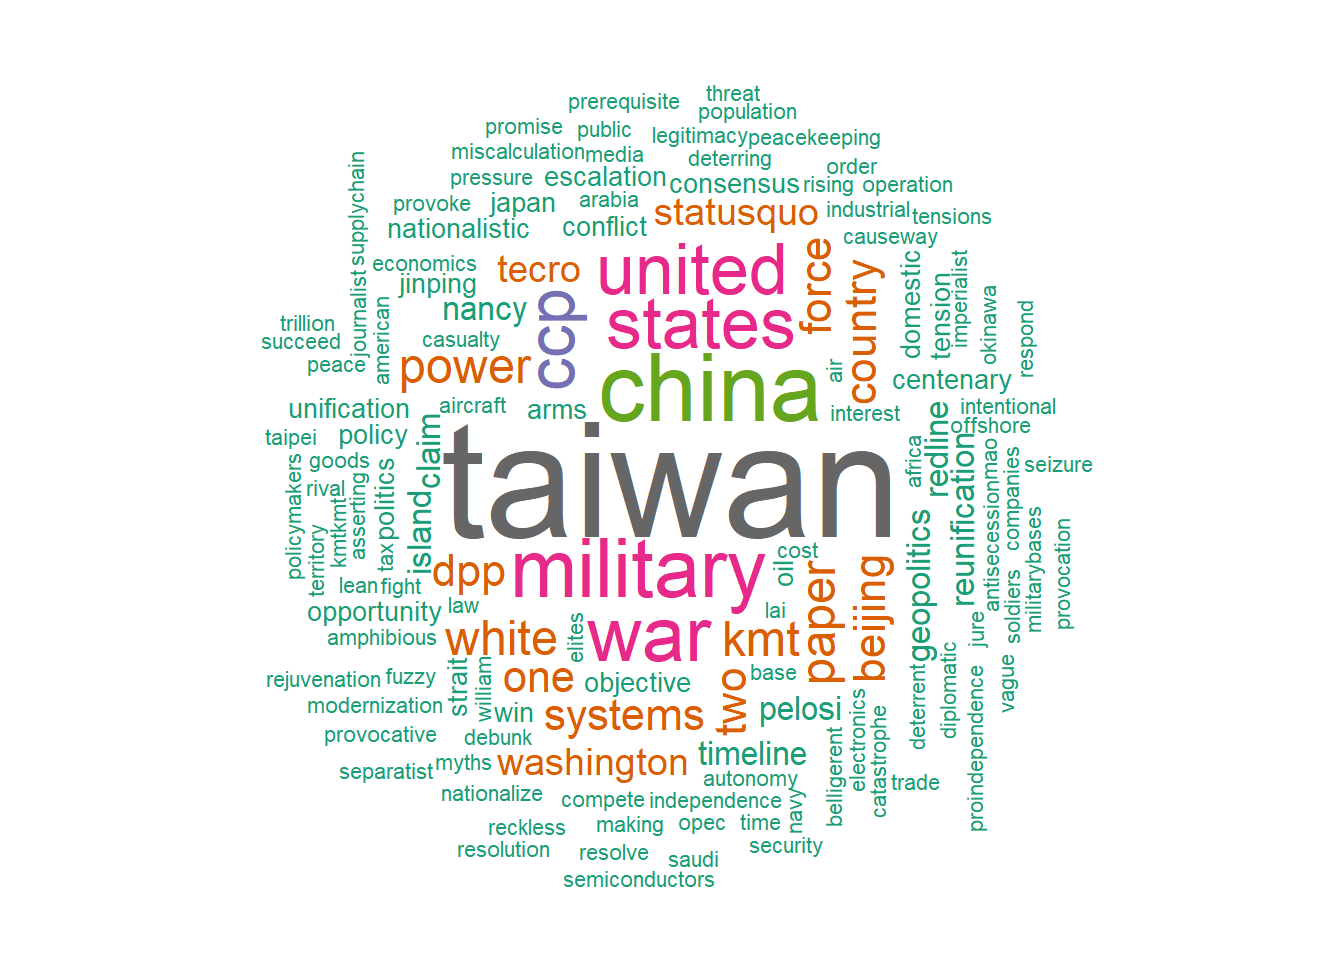
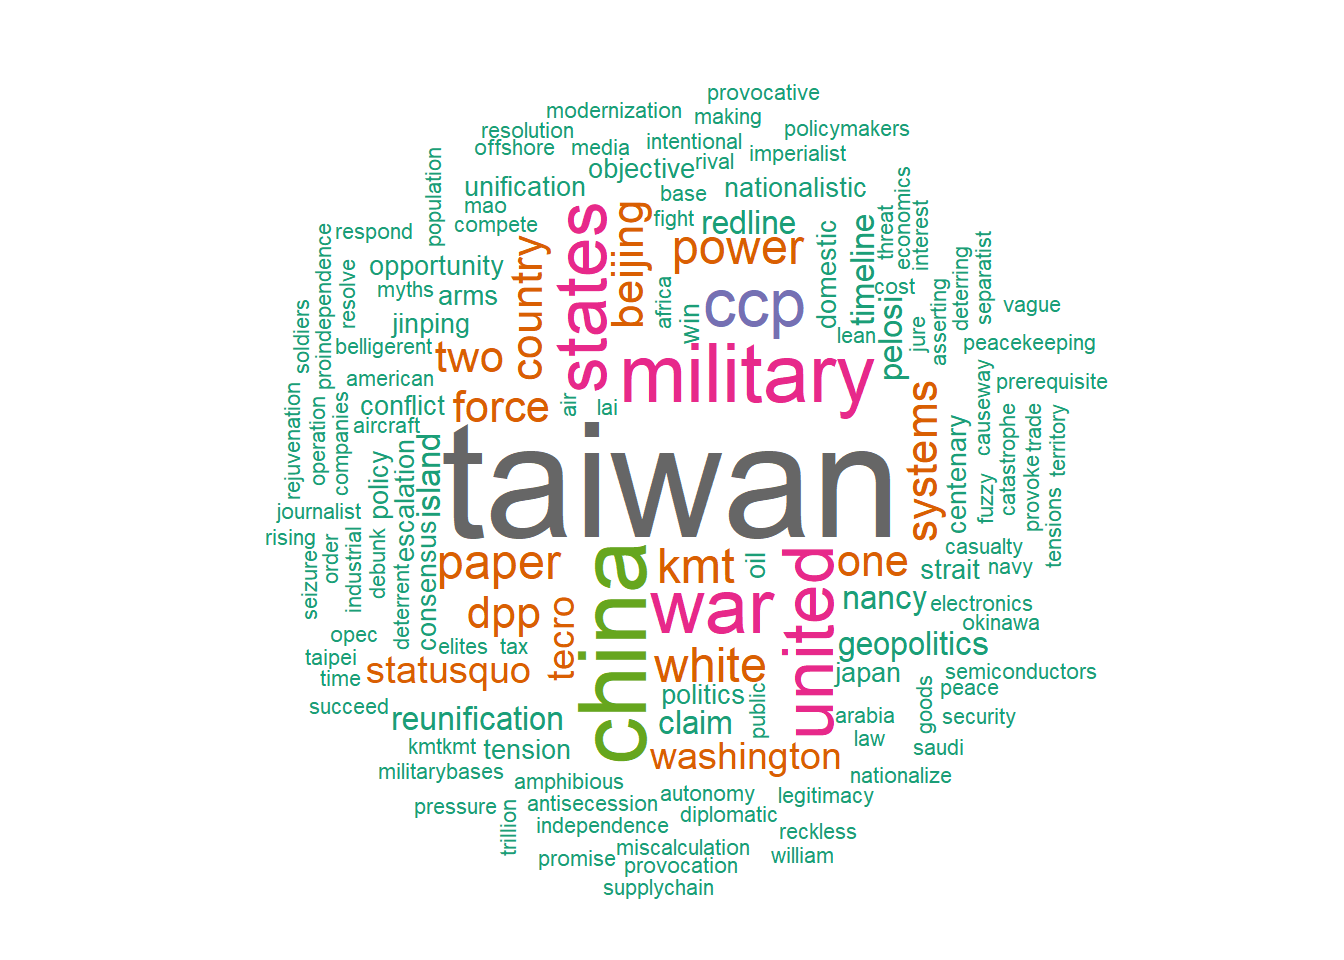
edits

Changed region(s): [[0.1875, 0.0938, 0.8438, 0.9375]]

diff --git a/docs/assignments/taiwan-talk/taiwan.html b/docs/assignments/taiwan-talk/taiwan.html
@@ -294,106 +294,63 @@ code span.wa { color: #60a0b0; font-weight: bold; font-style: italic; } /* Warni
 <section id="read-in-required-libraries-and-the-text" class="level2">
 <h2 class="anchored" data-anchor-id="read-in-required-libraries-and-the-text">Read in required libraries and the text</h2>
 <div class="cell">
-<div class="sourceCode cell-code" id="cb1"><pre class="sourceCode r code-with-copy"><code class="sourceCode r"><span id="cb1-1"><a href="#cb1-1" aria-hidden="true" tabindex="-1"></a><span class="co"># Load required libraries</span></span>
-<span id="cb1-2"><a href="#cb1-2" aria-hidden="true" tabindex="-1"></a><span class="fu">library</span>(tm)</span></code><button title="Copy to Clipboard" class="code-copy-button"><i class="bi"></i></button></pre></div>
-<div class="cell-output cell-output-stderr">
-<pre><code>Loading required package: NLP</code></pre>
-</div>
-<div class="sourceCode cell-code" id="cb3"><pre class="sourceCode r code-with-copy"><code class="sourceCode r"><span id="cb3-1"><a href="#cb3-1" aria-hidden="true" tabindex="-1"></a><span class="fu">library</span>(wordcloud)</span></code><button title="Copy to Clipboard" class="code-copy-button"><i class="bi"></i></button></pre></div>
-<div class="cell-output cell-output-stderr">
-<pre><code>Loading required package: RColorBrewer</code></pre>
-</div>
-<div class="sourceCode cell-code" id="cb5"><pre class="sourceCode r code-with-copy"><code class="sourceCode r"><span id="cb5-1"><a href="#cb5-1" aria-hidden="true" tabindex="-1"></a><span class="fu">library</span>(wordcloud2)</span>
-<span id="cb5-2"><a href="#cb5-2" aria-hidden="true" tabindex="-1"></a></span>
-<span id="cb5-3"><a href="#cb5-3" aria-hidden="true" tabindex="-1"></a><span class="co"># Read in the text from the provided content</span></span>
-<span id="cb5-4"><a href="#cb5-4" aria-hidden="true" tabindex="-1"></a>text <span class="ot">&lt;-</span> <span class="st">"Taiwan, China, Nationalize, Policy-makers, Taiwan Strait, War, Soldiers, American, Geopolitics, Economics, Trade, Electronics, Supply-Chain, Semiconductors, OPEC, Oil, Saudi Arabia, Geopolitics, Military-bases, Island, Okinawa, War, Taiwan, China, Japan, Oil, Nationalistic, United States, China, Territory, Geopolitics, Aircraft, Trillion, Cost, Policy, Taiwan, Domestic Politics in China, CCP, Power, China, Power, China, Threat, Nationalistic, Xi, Power, Interest, CCP, Pressure, Taiwan, Taiwan, Claim, Imperialist, Claim, Claim, Independence, Diplomatic, Beijing, Fight, War, CCP, War, Military, Modernization, War, United States, Japan, Rising, Time, Military, Navy, Air Force, Opportunity, China, United States, Military, Industrial base, War, Rival, Power, Military, CCP, Tax, Companies, Goods, Public, Military, Taiwan Strait, China, Belligerent, China, Taiwan, Taiwan, United States, Status-Quo, Status-Quo, Fuzzy, De jure, Beijing, Domestic, Legitimacy, Deterring, United States, Taiwan, Security, Respond, Beijing, War, Win, Provoke, United States, Taiwan, War, Win, Taiwan, Nancy Pelosi, Taiwan, Military, Island, Provocative, White Paper, Media, White Paper, Journalist, Beijing, White Paper, 1993, 2000, 2022, Taiwan, White Paper, Xi Jinping, White Paper, 2000, Taiwan, One country two systems, Autonomy, Military, White Paper, Promise, Beijing, Compete, 2000, Force, 2000, 2000, Force, 2022, Force, Force, Provocation, Separatist, Red-line, Red-line, Anti-Secession Law, Reunification, Reunification, Reunification, War, Operation Causeway, Casualty, Amphibious, Military, Peacekeeping, Africa, Island, Offshore, Mao, Seizure, Taiwan, Debunk, Myths, Policy making, China, Opportunity, Population, Military, Military, Lean, Power, Xi, Taiwan, CCP, Xi, Elites, China, Xi, CCP, CCP, Timeline, Timeline, Succeed, 2049, Unification, Prerequisite, Rejuvenation, Vague, 2049, Taiwan, One country two systems, One country two systems, One country two systems, Timeline, 2025, 2027, centenary, Xi, CCP, Xi, Order, Military, centenary, 2049, Peace, Conflict, War, Conflict, Escalation, Miscalculation, Reckless, Taiwan, Asserting, Tensions, United States, Washington, Catastrophe, United States, Red-line, Taiwan, China, Intentional, Resolution, Politics, Taiwan, Xi Jinping, Taiwan, Power, DPP, DPP, KMT, KMT, KMT, KMT, Consensus, 92 consensus, One country two systems, KMT, DPP, William Lai, Taipei, Taiwan, Resolve, Objective, War, Tension, Objective, Status-Quo, Tension, Taiwan, KMT, Unification, Washington, DPP, Pro-Independence, KMT,KMT, Washington, CCP, DPP, Arms, Taiwan, United States, Arms, Washington, Taiwan, TECRO, TECRO, Nancy Pelosi, TECRO, China, United States, Nancy Pelosi, China, TECRO, Status-quo, Military, Escalation, Deterrent"</span></span></code><button title="Copy to Clipboard" class="code-copy-button"><i class="bi"></i></button></pre></div>
+
 </div>
 </section>
 <section id="creation-of-the-corpus-for-data-analysis" class="level2">
 <h2 class="anchored" data-anchor-id="creation-of-the-corpus-for-data-analysis">Creation of the Corpus for data analysis</h2>
 <div class="cell">
-<div class="sourceCode cell-code" id="cb6"><pre class="sourceCode r code-with-copy"><code class="sourceCode r"><span id="cb6-1"><a href="#cb6-1" aria-hidden="true" tabindex="-1"></a><span class="co"># Create a corpus from the text</span></span>
-<span id="cb6-2"><a href="#cb6-2" aria-hidden="true" tabindex="-1"></a>corpus <span class="ot">&lt;-</span> <span class="fu">Corpus</span>(<span class="fu">VectorSource</span>(text))</span>
-<span id="cb6-3"><a href="#cb6-3" aria-hidden="true" tabindex="-1"></a></span>
-<span id="cb6-4"><a href="#cb6-4" aria-hidden="true" tabindex="-1"></a><span class="co"># Convert to lowercase, remove punctuation, and remove numbers</span></span>
-<span id="cb6-5"><a href="#cb6-5" aria-hidden="true" tabindex="-1"></a>corpus <span class="ot">&lt;-</span> <span class="fu">tm_map</span>(corpus, <span class="fu">content_transformer</span>(tolower))</span></code><button title="Copy to Clipboard" class="code-copy-button"><i class="bi"></i></button></pre></div>
-<div class="cell-output cell-output-stderr">
-<pre><code>Warning in tm_map.SimpleCorpus(corpus, content_transformer(tolower)):
-transformation drops documents</code></pre>
-</div>
-<div class="sourceCode cell-code" id="cb8"><pre class="sourceCode r code-with-copy"><code class="sourceCode r"><span id="cb8-1"><a href="#cb8-1" aria-hidden="true" tabindex="-1"></a>corpus <span class="ot">&lt;-</span> <span class="fu">tm_map</span>(corpus, removePunctuation)</span></code><button title="Copy to Clipboard" class="code-copy-button"><i class="bi"></i></button></pre></div>
-<div class="cell-output cell-output-stderr">
-<pre><code>Warning in tm_map.SimpleCorpus(corpus, removePunctuation): transformation drops
-documents</code></pre>
-</div>
-<div class="sourceCode cell-code" id="cb10"><pre class="sourceCode r code-with-copy"><code class="sourceCode r"><span id="cb10-1"><a href="#cb10-1" aria-hidden="true" tabindex="-1"></a>corpus <span class="ot">&lt;-</span> <span class="fu">tm_map</span>(corpus, removeNumbers)</span></code><button title="Copy to Clipboard" class="code-copy-button"><i class="bi"></i></button></pre></div>
-<div class="cell-output cell-output-stderr">
-<pre><code>Warning in tm_map.SimpleCorpus(corpus, removeNumbers): transformation drops
-documents</code></pre>
-</div>
-<div class="sourceCode cell-code" id="cb12"><pre class="sourceCode r code-with-copy"><code class="sourceCode r"><span id="cb12-1"><a href="#cb12-1" aria-hidden="true" tabindex="-1"></a><span class="co"># Convert the corpus to a term-document matrix</span></span>
-<span id="cb12-2"><a href="#cb12-2" aria-hidden="true" tabindex="-1"></a>tdm <span class="ot">&lt;-</span> <span class="fu">TermDocumentMatrix</span>(corpus)</span>
-<span id="cb12-3"><a href="#cb12-3" aria-hidden="true" tabindex="-1"></a></span>
-<span id="cb12-4"><a href="#cb12-4" aria-hidden="true" tabindex="-1"></a><span class="co"># Convert the tdm to a matrix and calculate the frequency of each term</span></span>
-<span id="cb12-5"><a href="#cb12-5" aria-hidden="true" tabindex="-1"></a>m <span class="ot">&lt;-</span> <span class="fu">as.matrix</span>(tdm)</span>
-<span id="cb12-6"><a href="#cb12-6" aria-hidden="true" tabindex="-1"></a>v <span class="ot">&lt;-</span> <span class="fu">sort</span>(<span class="fu">rowSums</span>(m), <span class="at">decreasing=</span><span class="cn">TRUE</span>)</span>
-<span id="cb12-7"><a href="#cb12-7" aria-hidden="true" tabindex="-1"></a></span>
-<span id="cb12-8"><a href="#cb12-8" aria-hidden="true" tabindex="-1"></a><span class="co"># Create a dataframe of the most frequent terms and their frequencies</span></span>
-<span id="cb12-9"><a href="#cb12-9" aria-hidden="true" tabindex="-1"></a>df <span class="ot">&lt;-</span> <span class="fu">data.frame</span>(<span class="at">word =</span> <span class="fu">names</span>(v), <span class="at">freq =</span> v)</span></code><button title="Copy to Clipboard" class="code-copy-button"><i class="bi"></i></button></pre></div>
+<div class="sourceCode cell-code" id="cb1"><pre class="sourceCode r code-with-copy"><code class="sourceCode r"><span id="cb1-1"><a href="#cb1-1" aria-hidden="true" tabindex="-1"></a><span class="co"># Create a corpus from the text</span></span>
+<span id="cb1-2"><a href="#cb1-2" aria-hidden="true" tabindex="-1"></a>corpus <span class="ot">&lt;-</span> <span class="fu">Corpus</span>(<span class="fu">VectorSource</span>(text))</span>
+<span id="cb1-3"><a href="#cb1-3" aria-hidden="true" tabindex="-1"></a></span>
+<span id="cb1-4"><a href="#cb1-4" aria-hidden="true" tabindex="-1"></a><span class="co"># Convert to lowercase, remove punctuation, and remove numbers</span></span>
+<span id="cb1-5"><a href="#cb1-5" aria-hidden="true" tabindex="-1"></a>corpus <span class="ot">&lt;-</span> <span class="fu">tm_map</span>(corpus, <span class="fu">content_transformer</span>(tolower))</span>
+<span id="cb1-6"><a href="#cb1-6" aria-hidden="true" tabindex="-1"></a>corpus <span class="ot">&lt;-</span> <span class="fu">tm_map</span>(corpus, removePunctuation)</span>
+<span id="cb1-7"><a href="#cb1-7" aria-hidden="true" tabindex="-1"></a>corpus <span class="ot">&lt;-</span> <span class="fu">tm_map</span>(corpus, removeNumbers)</span>
+<span id="cb1-8"><a href="#cb1-8" aria-hidden="true" tabindex="-1"></a></span>
+<span id="cb1-9"><a href="#cb1-9" aria-hidden="true" tabindex="-1"></a><span class="co"># Convert the corpus to a term-document matrix</span></span>
+<span id="cb1-10"><a href="#cb1-10" aria-hidden="true" tabindex="-1"></a>tdm <span class="ot">&lt;-</span> <span class="fu">TermDocumentMatrix</span>(corpus)</span>
+<span id="cb1-11"><a href="#cb1-11" aria-hidden="true" tabindex="-1"></a></span>
+<span id="cb1-12"><a href="#cb1-12" aria-hidden="true" tabindex="-1"></a><span class="co"># Convert the tdm to a matrix and calculate the frequency of each term</span></span>
+<span id="cb1-13"><a href="#cb1-13" aria-hidden="true" tabindex="-1"></a>m <span class="ot">&lt;-</span> <span class="fu">as.matrix</span>(tdm)</span>
+<span id="cb1-14"><a href="#cb1-14" aria-hidden="true" tabindex="-1"></a>v <span class="ot">&lt;-</span> <span class="fu">sort</span>(<span class="fu">rowSums</span>(m), <span class="at">decreasing=</span><span class="cn">TRUE</span>)</span>
+<span id="cb1-15"><a href="#cb1-15" aria-hidden="true" tabindex="-1"></a></span>
+<span id="cb1-16"><a href="#cb1-16" aria-hidden="true" tabindex="-1"></a><span class="co"># Create a dataframe of the most frequent terms and their frequencies</span></span>
+<span id="cb1-17"><a href="#cb1-17" aria-hidden="true" tabindex="-1"></a>df <span class="ot">&lt;-</span> <span class="fu">data.frame</span>(<span class="at">word =</span> <span class="fu">names</span>(v), <span class="at">freq =</span> v)</span></code><button title="Copy to Clipboard" class="code-copy-button"><i class="bi"></i></button></pre></div>
 </div>
 </section>
 <section id="creation-of-plots" class="level2">
 <h2 class="anchored" data-anchor-id="creation-of-plots">Creation of plots</h2>
 <div class="cell">
-<div class="sourceCode cell-code" id="cb13"><pre class="sourceCode r code-with-copy"><code class="sourceCode r"><span id="cb13-1"><a href="#cb13-1" aria-hidden="true" tabindex="-1"></a><span class="co"># Generate a word cloud</span></span>
-<span id="cb13-2"><a href="#cb13-2" aria-hidden="true" tabindex="-1"></a><span class="fu">wordcloud</span>(<span class="at">words =</span> df<span class="sc">$</span>word, <span class="at">freq =</span> df<span class="sc">$</span>freq, <span class="at">scale=</span><span class="fu">c</span>(<span class="dv">5</span>,<span class="fl">0.5</span>), <span class="at">min.freq =</span> <span class="dv">1</span>, <span class="at">max.words=</span><span class="cn">Inf</span>, <span class="at">random.order=</span><span class="cn">FALSE</span>, <span class="at">rot.per=</span><span class="fl">0.35</span>, <span class="at">colors=</span><span class="fu">brewer.pal</span>(<span class="dv">8</span>, <span class="st">"Dark2"</span>))</span>
-<span id="cb13-3"><a href="#cb13-3" aria-hidden="true" tabindex="-1"></a></span>
-<span id="cb13-4"><a href="#cb13-4" aria-hidden="true" tabindex="-1"></a><span class="co"># Load required libraries</span></span>
-<span id="cb13-5"><a href="#cb13-5" aria-hidden="true" tabindex="-1"></a><span class="fu">library</span>(tm)</span>
-<span id="cb13-6"><a href="#cb13-6" aria-hidden="true" tabindex="-1"></a><span class="fu">library</span>(ggplot2)</span></code><button title="Copy to Clipboard" class="code-copy-button"><i class="bi"></i></button></pre></div>
-<div class="cell-output cell-output-stderr">
-<pre><code>
-Attaching package: 'ggplot2'</code></pre>
-</div>
-<div class="cell-output cell-output-stderr">
-<pre><code>The following object is masked from 'package:NLP':
-
-    annotate</code></pre>
-</div>
+<div class="sourceCode cell-code" id="cb2"><pre class="sourceCode r code-with-copy"><code class="sourceCode r"><span id="cb2-1"><a href="#cb2-1" aria-hidden="true" tabindex="-1"></a><span class="co"># Generate a word cloud</span></span>
+<span id="cb2-2"><a href="#cb2-2" aria-hidden="true" tabindex="-1"></a><span class="fu">wordcloud</span>(<span class="at">words =</span> df<span class="sc">$</span>word, <span class="at">freq =</span> df<span class="sc">$</span>freq, <span class="at">scale=</span><span class="fu">c</span>(<span class="dv">5</span>,<span class="fl">0.5</span>), <span class="at">min.freq =</span> <span class="dv">1</span>, <span class="at">max.words=</span><span class="cn">Inf</span>, <span class="at">random.order=</span><span class="cn">FALSE</span>, <span class="at">rot.per=</span><span class="fl">0.35</span>, <span class="at">colors=</span><span class="fu">brewer.pal</span>(<span class="dv">8</span>, <span class="st">"Dark2"</span>))</span>
+<span id="cb2-3"><a href="#cb2-3" aria-hidden="true" tabindex="-1"></a></span>
+<span id="cb2-4"><a href="#cb2-4" aria-hidden="true" tabindex="-1"></a><span class="co"># Load required libraries</span></span>
+<span id="cb2-5"><a href="#cb2-5" aria-hidden="true" tabindex="-1"></a><span class="fu">library</span>(tm)</span>
+<span id="cb2-6"><a href="#cb2-6" aria-hidden="true" tabindex="-1"></a><span class="fu">library</span>(ggplot2)</span></code><button title="Copy to Clipboard" class="code-copy-button"><i class="bi"></i></button></pre></div>
 <div class="cell-output-display">
 <p><img src="taiwan_files/figure-html/unnamed-chunk-3-1.png" class="img-fluid" width="672"></p>
 </div>
-<div class="sourceCode cell-code" id="cb16"><pre class="sourceCode r code-with-copy"><code class="sourceCode r"><span id="cb16-1"><a href="#cb16-1" aria-hidden="true" tabindex="-1"></a><span class="co"># Create a corpus from the text</span></span>
-<span id="cb16-2"><a href="#cb16-2" aria-hidden="true" tabindex="-1"></a>corpus <span class="ot">&lt;-</span> <span class="fu">Corpus</span>(<span class="fu">VectorSource</span>(text))</span>
-<span id="cb16-3"><a href="#cb16-3" aria-hidden="true" tabindex="-1"></a></span>
-<span id="cb16-4"><a href="#cb16-4" aria-hidden="true" tabindex="-1"></a><span class="co"># Convert to lowercase, remove punctuation, and remove numbers</span></span>
-<span id="cb16-5"><a href="#cb16-5" aria-hidden="true" tabindex="-1"></a>corpus <span class="ot">&lt;-</span> <span class="fu">tm_map</span>(corpus, <span class="fu">content_transformer</span>(tolower))</span></code><button title="Copy to Clipboard" class="code-copy-button"><i class="bi"></i></button></pre></div>
-<div class="cell-output cell-output-stderr">
-<pre><code>Warning in tm_map.SimpleCorpus(corpus, content_transformer(tolower)):
-transformation drops documents</code></pre>
-</div>
-<div class="sourceCode cell-code" id="cb18"><pre class="sourceCode r code-with-copy"><code class="sourceCode r"><span id="cb18-1"><a href="#cb18-1" aria-hidden="true" tabindex="-1"></a>corpus <span class="ot">&lt;-</span> <span class="fu">tm_map</span>(corpus, removePunctuation)</span></code><button title="Copy to Clipboard" class="code-copy-button"><i class="bi"></i></button></pre></div>
-<div class="cell-output cell-output-stderr">
-<pre><code>Warning in tm_map.SimpleCorpus(corpus, removePunctuation): transformation drops
-documents</code></pre>
-</div>
-<div class="sourceCode cell-code" id="cb20"><pre class="sourceCode r code-with-copy"><code class="sourceCode r"><span id="cb20-1"><a href="#cb20-1" aria-hidden="true" tabindex="-1"></a>corpus <span class="ot">&lt;-</span> <span class="fu">tm_map</span>(corpus, removeNumbers)</span></code><button title="Copy to Clipboard" class="code-copy-button"><i class="bi"></i></button></pre></div>
-<div class="cell-output cell-output-stderr">
-<pre><code>Warning in tm_map.SimpleCorpus(corpus, removeNumbers): transformation drops
-documents</code></pre>
-</div>
-<div class="sourceCode cell-code" id="cb22"><pre class="sourceCode r code-with-copy"><code class="sourceCode r"><span id="cb22-1"><a href="#cb22-1" aria-hidden="true" tabindex="-1"></a><span class="co"># Convert the corpus to a term-document matrix</span></span>
-<span id="cb22-2"><a href="#cb22-2" aria-hidden="true" tabindex="-1"></a>tdm <span class="ot">&lt;-</span> <span class="fu">TermDocumentMatrix</span>(corpus)</span>
-<span id="cb22-3"><a href="#cb22-3" aria-hidden="true" tabindex="-1"></a></span>
-<span id="cb22-4"><a href="#cb22-4" aria-hidden="true" tabindex="-1"></a><span class="co"># Convert the tdm to a matrix and calculate the frequency of each term</span></span>
-<span id="cb22-5"><a href="#cb22-5" aria-hidden="true" tabindex="-1"></a>m <span class="ot">&lt;-</span> <span class="fu">as.matrix</span>(tdm)</span>
-<span id="cb22-6"><a href="#cb22-6" aria-hidden="true" tabindex="-1"></a>v <span class="ot">&lt;-</span> <span class="fu">sort</span>(<span class="fu">rowSums</span>(m), <span class="at">decreasing=</span><span class="cn">TRUE</span>)</span>
-<span id="cb22-7"><a href="#cb22-7" aria-hidden="true" tabindex="-1"></a></span>
-<span id="cb22-8"><a href="#cb22-8" aria-hidden="true" tabindex="-1"></a><span class="co"># Create a dataframe of the most frequent terms and their frequencies</span></span>
-<span id="cb22-9"><a href="#cb22-9" aria-hidden="true" tabindex="-1"></a>df <span class="ot">&lt;-</span> <span class="fu">data.frame</span>(<span class="at">word =</span> <span class="fu">names</span>(v), <span class="at">freq =</span> v)</span>
-<span id="cb22-10"><a href="#cb22-10" aria-hidden="true" tabindex="-1"></a></span>
-<span id="cb22-11"><a href="#cb22-11" aria-hidden="true" tabindex="-1"></a><span class="co"># Create a bar chart of the top 20 most frequent terms</span></span>
-<span id="cb22-12"><a href="#cb22-12" aria-hidden="true" tabindex="-1"></a><span class="fu">ggplot</span>(<span class="fu">head</span>(df, <span class="dv">20</span>), <span class="fu">aes</span>(<span class="at">x=</span>word, <span class="at">y=</span>freq)) <span class="sc">+</span> <span class="fu">geom_bar</span>(<span class="at">stat=</span><span class="st">"identity"</span>, <span class="at">fill=</span><span class="st">"dodgerblue"</span>) <span class="sc">+</span> <span class="fu">xlab</span>(<span class="st">"Words"</span>) <span class="sc">+</span> <span class="fu">ylab</span>(<span class="st">"Frequency"</span>) <span class="sc">+</span> <span class="fu">ggtitle</span>(<span class="st">"Most Frequent Words in Cunningham Talk"</span>) <span class="sc">+</span> <span class="fu">theme</span>(<span class="at">plot.title =</span> <span class="fu">element_text</span>(<span class="at">hjust =</span> <span class="fl">0.5</span>))</span></code><button title="Copy to Clipboard" class="code-copy-button"><i class="bi"></i></button></pre></div>
+<div class="sourceCode cell-code" id="cb3"><pre class="sourceCode r code-with-copy"><code class="sourceCode r"><span id="cb3-1"><a href="#cb3-1" aria-hidden="true" tabindex="-1"></a><span class="co"># Create a corpus from the text</span></span>
+<span id="cb3-2"><a href="#cb3-2" aria-hidden="true" tabindex="-1"></a>corpus <span class="ot">&lt;-</span> <span class="fu">Corpus</span>(<span class="fu">VectorSource</span>(text))</span>
+<span id="cb3-3"><a href="#cb3-3" aria-hidden="true" tabindex="-1"></a></span>
+<span id="cb3-4"><a href="#cb3-4" aria-hidden="true" tabindex="-1"></a><span class="co"># Convert to lowercase, remove punctuation, and remove numbers</span></span>
+<span id="cb3-5"><a href="#cb3-5" aria-hidden="true" tabindex="-1"></a>corpus <span class="ot">&lt;-</span> <span class="fu">tm_map</span>(corpus, <span class="fu">content_transformer</span>(tolower))</span>
+<span id="cb3-6"><a href="#cb3-6" aria-hidden="true" tabindex="-1"></a>corpus <span class="ot">&lt;-</span> <span class="fu">tm_map</span>(corpus, removePunctuation)</span>
+<span id="cb3-7"><a href="#cb3-7" aria-hidden="true" tabindex="-1"></a>corpus <span class="ot">&lt;-</span> <span class="fu">tm_map</span>(corpus, removeNumbers)</span>
+<span id="cb3-8"><a href="#cb3-8" aria-hidden="true" tabindex="-1"></a></span>
+<span id="cb3-9"><a href="#cb3-9" aria-hidden="true" tabindex="-1"></a><span class="co"># Convert the corpus to a term-document matrix</span></span>
+<span id="cb3-10"><a href="#cb3-10" aria-hidden="true" tabindex="-1"></a>tdm <span class="ot">&lt;-</span> <span class="fu">TermDocumentMatrix</span>(corpus)</span>
+<span id="cb3-11"><a href="#cb3-11" aria-hidden="true" tabindex="-1"></a></span>
+<span id="cb3-12"><a href="#cb3-12" aria-hidden="true" tabindex="-1"></a><span class="co"># Convert the tdm to a matrix and calculate the frequency of each term</span></span>
+<span id="cb3-13"><a href="#cb3-13" aria-hidden="true" tabindex="-1"></a>m <span class="ot">&lt;-</span> <span class="fu">as.matrix</span>(tdm)</span>
+<span id="cb3-14"><a href="#cb3-14" aria-hidden="true" tabindex="-1"></a>v <span class="ot">&lt;-</span> <span class="fu">sort</span>(<span class="fu">rowSums</span>(m), <span class="at">decreasing=</span><span class="cn">TRUE</span>)</span>
+<span id="cb3-15"><a href="#cb3-15" aria-hidden="true" tabindex="-1"></a></span>
+<span id="cb3-16"><a href="#cb3-16" aria-hidden="true" tabindex="-1"></a><span class="co"># Create a dataframe of the most frequent terms and their frequencies</span></span>
+<span id="cb3-17"><a href="#cb3-17" aria-hidden="true" tabindex="-1"></a>df <span class="ot">&lt;-</span> <span class="fu">data.frame</span>(<span class="at">word =</span> <span class="fu">names</span>(v), <span class="at">freq =</span> v)</span>
+<span id="cb3-18"><a href="#cb3-18" aria-hidden="true" tabindex="-1"></a></span>
+<span id="cb3-19"><a href="#cb3-19" aria-hidden="true" tabindex="-1"></a><span class="co"># Create a bar chart of the top 20 most frequent terms</span></span>
+<span id="cb3-20"><a href="#cb3-20" aria-hidden="true" tabindex="-1"></a><span class="fu">ggplot</span>(<span class="fu">head</span>(df, <span class="dv">20</span>), <span class="fu">aes</span>(<span class="at">x=</span>word, <span class="at">y=</span>freq)) <span class="sc">+</span> <span class="fu">geom_bar</span>(<span class="at">stat=</span><span class="st">"identity"</span>, <span class="at">fill=</span><span class="st">"dodgerblue"</span>) <span class="sc">+</span> <span class="fu">xlab</span>(<span class="st">"Words"</span>) <span class="sc">+</span> <span class="fu">ylab</span>(<span class="st">"Frequency"</span>) <span class="sc">+</span> <span class="fu">ggtitle</span>(<span class="st">"Most Frequent Words in Cunningham Talk"</span>) <span class="sc">+</span> <span class="fu">theme</span>(<span class="at">plot.title =</span> <span class="fu">element_text</span>(<span class="at">hjust =</span> <span class="fl">0.5</span>))</span></code><button title="Copy to Clipboard" class="code-copy-button"><i class="bi"></i></button></pre></div>
 <div class="cell-output-display">
 <p><img src="taiwan_files/figure-html/unnamed-chunk-3-2.png" class="img-fluid" width="672"></p>
 </div>

diff --git a/docs/index.html b/docs/index.html
@@ -166,6 +166,11 @@ ul.task-list li input[type="checkbox"] {
 </li>
           <li class="sidebar-item">
   <div class="sidebar-item-container"> 
+  <a href="./assignments/taiwan-talk/taiwan.html" class="sidebar-item-text sidebar-link">Taiwan Talk - Cunningham</a>
+  </div>
+</li>
+          <li class="sidebar-item">
+  <div class="sidebar-item-container"> 
   <a href="./assignments/proposal/prop-2-22-23.html" class="sidebar-item-text sidebar-link">Project Proposal</a>
   </div>
 </li>
